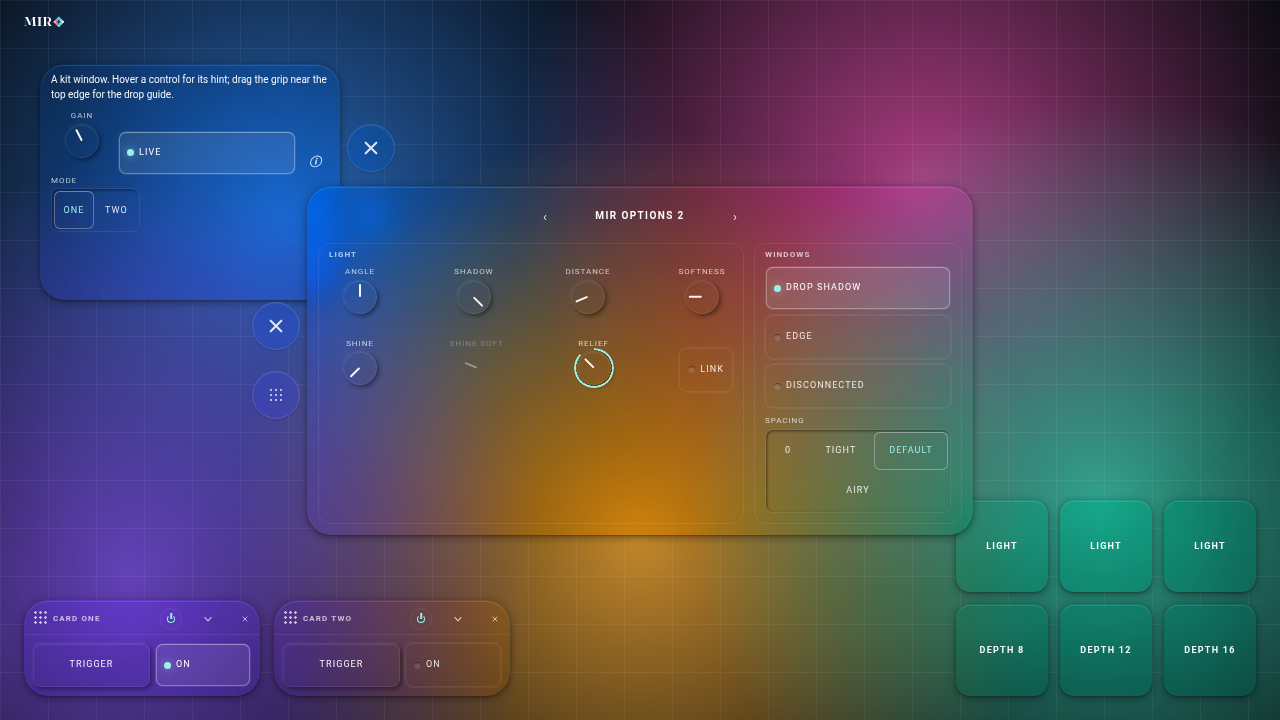
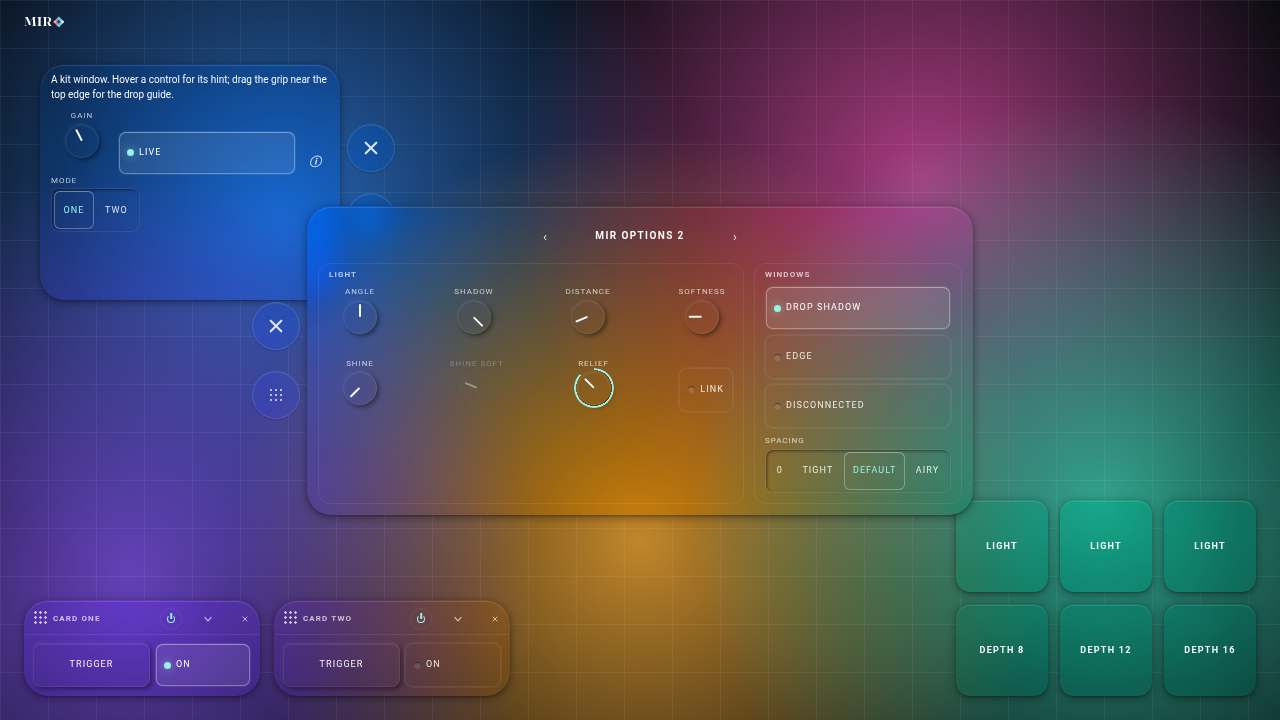
MIR 1.5.0-alpha.7: the join — BASINS parity: tokens, the lanes' hunks, SPACING on one line, docs, the suite green
Version 1.5.0-alpha.7. Tokens: V's six rows, the toast's three new defaults, a row for --glass-tint-color
(an app-written input BASINS writes), --neu-raise / --neu-inset with the relief light's exact √2 text (the
format checker accepts sqrt() inside a length now). Hunks: the starter test clicks FOLDERS' PROJECT
(BASINS' toolbar) and also proves Ctrl+S still saves; gallery/modulation.html's plain-card rack counts
(occupied: false). The transport test and doc follow V's ruled change (the bar keeps its own 16 px under
CORNERS). The GUI window keeps SPACING's four levels on one line on page 2 (plates retaken). CHANGELOG
(behaviour first), API from every lane, ADOPTING §7 brought up to date and §9 (the staged rack and
FOLDERS adoptions), LLM-MODS' round two, the catalogue (931 keys). npm test: 70/70 passed.

Claude-Session: https://claude.ai/code/session_01216PZJdRDXuZKuuo4X6KUw

diff --git a/mir/core/envelope.js b/mir/core/envelope.js
@@ -341,7 +341,7 @@ const NAMED = new Set(('transparent currentcolor black white silver gray grey re
 const COLOR_FNS = new Set(['rgb', 'rgba', 'hsl', 'hsla', 'hwb', 'lab', 'lch', 'oklab', 'oklch', 'color', 'color-mix', 'light-dark']);
 const COLOR_WORDS = new Set(['in', 'from', 'none', 'srgb', 'srgb-linear', 'display-p3', 'a98-rgb', 'prophoto-rgb', 'rec2020', 'xyz', 'xyz-d50', 'xyz-d65',
   'hsl', 'hwb', 'lab', 'lch', 'oklab', 'oklch', 'shorter', 'longer', 'increasing', 'decreasing', 'hue', 'r', 'g', 'b', 'h', 's', 'l', 'w', 'a', 'c', 'x', 'y', 'z', 'alpha']);
-const MATH_FNS = new Set(['calc', 'min', 'max', 'clamp', '']);
+const MATH_FNS = new Set(['calc', 'min', 'max', 'clamp', 'sqrt', '']);   // sqrt: the relief's exact √2 offsets (1.5.0-alpha.7)
 const GRAD_FNS = new Set(['linear-gradient', 'radial-gradient', 'conic-gradient', 'repeating-linear-gradient', 'repeating-radial-gradient', 'repeating-conic-gradient']);
 const GRAD_WORDS = new Set(['to', 'at', 'top', 'bottom', 'left', 'right', 'center', 'circle', 'ellipse', 'closest-side', 'closest-corner', 'farthest-side', 'farthest-corner', 'from', ...COLOR_WORDS]);
 const FILTER_FNS = new Set(['blur', 'brightness', 'contrast', 'saturate', 'grayscale', 'sepia', 'invert', 'opacity', 'hue-rotate', 'drop-shadow']);

diff --git a/mir/shell/gui.css b/mir/shell/gui.css
@@ -58,6 +58,13 @@
 .gui-line.gui-knobs { justify-content: space-between; flex-wrap: nowrap; }
 .gui-line.gui-knobs > .sw.gui-link { flex: 0 0 auto; align-self: center; }   /* RELIEF's LINK, in a dial row */
 .gui-line.gui-pair { gap: var(--gui-gap); flex-wrap: nowrap; }
+/* SPACING's four levels (0 · TIGHT · DEFAULT · AIRY) on one line in the one-column WINDOWS group: the segment fills the
+   row and its seats take the house's smallest inline padding (a mouse; a finger keeps the 44 px seats, which may wrap) */
+@media not (pointer: coarse) {
+  .gui-grp[data-group="windows"] .segw { flex: 1 1 100%; }
+  .gui-grp[data-group="windows"] .seg { display: flex; flex-wrap: nowrap; width: 100%; }
+  .gui-grp[data-group="windows"] .seg-b { min-width: 0; padding-inline: var(--sp-2); }
+}
 .gui-line.gui-sws > .sw { flex: 1 1 0; justify-content: flex-start; }
 .gui-line.gui-col { flex-direction: column; align-items: stretch; }   /* switches one under another */
 .gui-show { flex: 1 1 auto; align-items: stretch; }

diff --git a/mir/shell/transport.js b/mir/shell/transport.js
@@ -24,8 +24,8 @@
  *      Docked (BASINS' dock chip), the bar lives in a rack window named TRANSPORT and does not dodge.
  *   4. LATCHES SAY THE TRUTH, AND NOTHING POLLS.  After a click or a key on the page, a rack window opening or closing,
  *      the arm, the clock: ONE paint in the next frame.  Idle costs nothing.  BASINS' 250 ms sync interval is gone.
- *   5. EVERY LOOK VALUE IS THE KIT'S.  The bar is a `.glass` pane, so CARD STYLE, FROST, BLUR, CORNERS (via
- *      --surface-radius), RELIEF and the tier restyle it with no transport code (transport.css).
+ *   5. EVERY LOOK VALUE IS THE KIT'S.  The bar is a `.glass` pane, so CARD STYLE, FROST, BLUR, RELIEF and the tier
+ *      restyle it with no transport code (transport.css); it keeps its own 16 px corner under CORNERS, as BASINS' bar does.
  *   6. NO ENGLISH IN A LOOKUP.  Words go through label() / ariaLabel() / t(); parts are found by class and data-*.
  *
  * The pure helpers are exported for node tests. */

diff --git a/mir/app.js b/mir/app.js
@@ -182,7 +182,8 @@ export async function createApp(o = {}) {
     about: { version: o.version || '', licence: gplLicence(name, { license: LICENSE, notice: null }), type: kitType([], FONTS), ...opt(o.about) },
     onLogo: () => accent.paintMarks(), dump: () => (describe ? describe.dump() : ''), ...opt(o.notebook) });
 
-  /* 10. FOLDERS: SAVE, OPEN, NEW, export — every registered project part, for free */
+  /* 10. FOLDERS: every registered project part, for free; its toolbar is BASINS' (PROJECT · CAPTURE · DOWNLOAD · DUPLICATE · NEW),
+        and FILE › SAVE / Ctrl+S (the key table's 'save' row) save over the open project */
   if (want('folders')) folders = createFolders({ host: floats, app: key, store: key + '.folders', rack,
     adapter: o.thumbnail ? { thumbnail: o.thumbnail } : {}, onMoved: moved,
     say: (text, warn) => notice(text, { kind: warn ? 'warn' : 'ok' }), ...opt(o.folders) });

diff --git a/gallery/modulation.html b/gallery/modulation.html
@@ -103,7 +103,7 @@ const params = P.map((p) => {
 });
 
 /* ── THE PLUGIN: one call ── */
-const span = observeSpan({ left: rack });
+const span = observeSpan({ left: rack, occupied: false });   // this page's rack is a plain card, not kit windows: it always counts
 mod = installModulation({ mount: document.getElementById('floats'), params, present, storageKey, presetKey, dock: { span } });
 
 /* first visit: an LFO drives MACRO 1, routed onto a knob (SIZE) and a fader (BRIGHT); the ENV drives MACRO 2 → HUE */

diff --git a/mir/version.js b/mir/version.js
@@ -1,4 +1,4 @@
 /* version.js — the kit's version, in one place.  It equals package.json's "version" (tests/version.node.mjs holds
  * them together).  The GUI window's ABOUT page shows it (shell/gui.js MIR_VERSION) and every portable file carries it
  * (core/envelope.js KIT). */
-export const MIR_VERSION = '1.5.0-alpha.6';
+export const MIR_VERSION = '1.5.0-alpha.7';

diff --git a/docs/TOKENS.md b/docs/TOKENS.md
@@ -3,11 +3,11 @@
 > **Generated** from `mir/tokens.json` by `node tools/tokens-doc.mjs`. Do not edit this file; edit the schema and re-run.
 > `tests/tokens.node.mjs` fails when this page and the schema disagree, and when the schema and the kit's sheets disagree.
 
-**952 tokens:** 885 in the kit today — 830 declared in its sheets, 55 read there and declared nowhere, 0 written only by kit script — and 67 proposed for 1.5.
+**959 tokens:** 892 in the kit today — 836 declared in its sheets, 56 read there and declared nowhere, 0 written only by kit script — and 67 proposed for 1.5.
 
 | status | count |
 |---|---|
-| stable | 872 |
+| stable | 879 |
 | alias-of | 9 |
 | deprecated | 4 |
 | proposed | 67 |
@@ -322,6 +322,7 @@ What a pane is made of. Three vocabularies name it today (`--glass-*`, `--m2-mat
 | `--stage-ground-light` | component | color | `#eef1f6` |  | kit | ✓ | stable |  | stage.css: the light theme's #stage (html and body keep --stage-ground) |
 | `--solid-pane` | component | color | `hsl(var(--glass-tint) / 1)` |  | kit | ✓ | stable |  | CARD STYLE · SOLID: the opaque pane, in the glass tint (body[data-card="solid"]) |
 | `--pane-edge` | semantic | color |  |  | kit | ✓ | stable |  | EDGE: a window pane's rim (cards, kit windows, the islands, the notebook, the modulation panes), read before --surface-edge; menus and popovers keep theirs (BASINS draws no window edge) |
+| `--glass-tint-color` | semantic | color |  |  | app-input |  | stable |  | an app-written input: the pane tint as one colour (BASINS writes it); the toast reads color-mix(in srgb, var(--glass-tint-color, hsl(212 12% 17%)) 82%, transparent). The kit never declares it |
 | `--surface-shadow-docked` | semantic | shadow | → `var(--glass-shadow)` |  | kit | ✓ | proposed | pane-floats | height 1 of 4: a docked card in the rack |
 | `--p-hue-glass` | primitive | angle | → `var(--glass-hue)` |  | kit | ✓ | proposed |  | F1 §5.2 primitive |
 | `--p-white-a04` | primitive | color | — |  | kit | ✓ | proposed |  | F1 §5.2 primitive: white at .04 |
@@ -461,8 +462,8 @@ Shadows and bevels. Each one means one thing (docs/INTENT.md).
 | `--gl-fill-a` | component | color | `transparent` |  | plugin |  | deprecated |  | a bevel light; transparent in every seat (wave 71), so --glass-bevel draws nothing *[inert]* |
 | `--gl-fill-b` | component | color | `transparent` |  | plugin |  | deprecated |  | a bevel light; transparent in every seat (wave 71), so --glass-bevel draws nothing *[inert]* |
 | `--neu-flat` | semantic | shadow | `0 0 0 1px hsl(0 0% 100% / .05)` |  | kit | ✓ | stable |  | "a resting seat" — a 1px ring; no meaning in the 1.5 vocabulary (open) |
-| `--neu-inset` | semantic | shadow | `inset calc(-1.4142px * var(--light-sin)) calc(1.4142px * var(--light-cos)) 3px hsl(0 0% 0% / .48), inset calc(1.4142px * var(--light-sin)) calc(-1.4142px * var(--light-cos)) 2px hsl(0 0% 100% / .04)` | `inset calc(-1.4142px * var(--light-sin)) calc(1.4142px * var(--light-cos)) 3px hsl(214 30% 40% / .24), inset calc(1.4142px * var(--light-sin)) calc(-1.4142px * var(--light-cos)) 2px hsl(0 0% 100% / .8)` | kit | ✓ | stable | well | "a well cut into the card". Also drawn as ON and as pressed today — the overload the vocabulary ends (1.5.0-alpha.5: turns with LIGHT ANGLE through --light-sin / --light-cos; SOLID declares its own) |
-| `--neu-raise` | semantic | shadow | `calc(1.4142px * var(--light-sin)) calc(-1.4142px * var(--light-cos)) 3px hsl(0 0% 100% / .05), calc(-2.8284px * var(--light-sin)) calc(2.8284px * var(--light-cos)) 4px hsl(0 0% 0% / .42), inset calc(-1px * var(--light-sin)) calc(1px * var(--light-cos)) 0 hsl(0 0% 100% / .08)` | `calc(1.4142px * var(--light-sin)) calc(-1.4142px * var(--light-cos)) 3px hsl(0 0% 100% / .9), calc(-2.8284px * var(--light-sin)) calc(2.8284px * var(--light-cos)) 4px hsl(214 30% 40% / .22), inset calc(-1px * var(--light-sin)) calc(1px * var(--light-cos)) 0 hsl(0 0% 100% / .9)` | kit | ✓ | stable | press-me | "a control that stands proud": light from the top-left, dark to the bottom-right. Also drawn on the CHOSEN segment today — ledger (1.5.0-alpha.5: turns with LIGHT ANGLE through --light-sin / --light-cos; SOLID declares its own) |
+| `--neu-inset` | semantic | shadow | `inset calc(-1px * sqrt(2) * var(--relief-sin)) calc(1px * sqrt(2) * var(--relief-cos)) 3px hsl(0 0% 0% / .48), inset calc(1px * sqrt(2) * var(--relief-sin)) calc(-1px * sqrt(2) * var(--relief-cos)) 2px hsl(0 0% 100% / .04)` | `inset calc(-1px * sqrt(2) * var(--relief-sin)) calc(1px * sqrt(2) * var(--relief-cos)) 3px hsl(214 30% 40% / .24), inset calc(1px * sqrt(2) * var(--relief-sin)) calc(-1px * sqrt(2) * var(--relief-cos)) 2px hsl(0 0% 100% / .8)` | kit | ✓ | stable | well | "a well cut into the card". Also drawn as ON and as pressed today — the overload the vocabulary ends (1.5.0-alpha.7: turns with RELIEF ANGLE through --relief-sin / --relief-cos; SOLID declares its own) |
+| `--neu-raise` | semantic | shadow | `calc(1px * sqrt(2) * var(--relief-sin)) calc(-1px * sqrt(2) * var(--relief-cos)) 3px hsl(0 0% 100% / .05), calc(-2px * sqrt(2) * var(--relief-sin)) calc(2px * sqrt(2) * var(--relief-cos)) 4px hsl(0 0% 0% / .42), inset 0 1px 0 hsl(0 0% 100% / .08)` | `calc(1px * sqrt(2) * var(--relief-sin)) calc(-1px * sqrt(2) * var(--relief-cos)) 3px hsl(0 0% 100% / .9), calc(-2px * sqrt(2) * var(--relief-sin)) calc(2px * sqrt(2) * var(--relief-cos)) 4px hsl(214 30% 40% / .22), inset 0 1px 0 hsl(0 0% 100% / .9)` | kit | ✓ | stable | press-me | "a control that stands proud": light from the top-left, dark to the bottom-right. Also drawn on the CHOSEN segment today — ledger (1.5.0-alpha.7: turns with RELIEF ANGLE through --relief-sin / --relief-cos; SOLID declares its own) |
 | `--relief-raise` | semantic | shadow |  |  | kit | ✓ | stable | press-me | PRESS ME: unset by default, read as var(--relief-raise, var(--neu-raise)) on the knob puck, the trigger and the chosen segment (that last one is INTENT L33). FLAT: 0 0 0 0 transparent (1.4 fallback name: --neu-raise) |
 | `--relief-well` | semantic | shadow |  |  | kit | ✓ | stable | well | A WELL: unset by default, read as var(--relief-well, var(--neu-inset)) on the seg track, fader, readout, select, meter bar and plane model — and on .sw:active/.trig:active/.on, where 1.4 draws pressed and ON as a well (INTENT L18–L23) — and over the switch LED socket's literal inset. FLAT: 0 0 0 0 transparent (1.4 fallback name: --neu-inset) |
 | `--k-needle-edge` | component | shadow | `0 0 0 .5px hsl(0 0% 0% / .38)` |  | kit | ✓ | stable |  | base.css: the needle's dark hairline (skin.css takes the shadow off) |
@@ -474,6 +475,10 @@ Shadows and bevels. Each one means one thing (docs/INTENT.md).
 | `--light-cos` | component | number | `cos(var(--light-angle))` |  | kit |  | stable |  | cos() of LIGHT ANGLE, for the offsets |
 | `--solid-lit` | component | color | `color-mix(in srgb, var(--solid-pane), hsl(0 0% 100%) 18%)` | `color-mix(in srgb, var(--solid-pane), hsl(0 0% 100%) 70%)` | kit | ✓ | stable | press-me | SOLID's relief toward the light: a lighter mix of the pane |
 | `--solid-shade` | component | color | `color-mix(in srgb, var(--solid-pane), hsl(0 0% 0%) 32%)` | `color-mix(in srgb, var(--solid-pane), hsl(214 30% 30%) 22%)` | kit | ✓ | stable | press-me | SOLID's relief away from the light: a darker mix of the pane |
+| `--seat-edge` | component | outline | `1px solid hsl(0 0% 100% / .05)` |  | kit | ✓ | stable |  | a resting seat (--neu-flat) drawn as an outline beside a pane shadow: the value tooltip and the badge, so a pane shadow written as `none` never takes the seat with it (1.5.0-alpha.7) |
+| `--relief-angle` | semantic | angle | `315deg` |  | kit | ✓ | stable | press-me | RELIEF ANGLE: where the controls' light is (315 = upper left: the 1.4 relief, BASINS'); the raise and wells turn with it. LINK writes LIGHT ANGLE here (INTENT O2: two lights) |
+| `--relief-sin` | component | number | `sin(var(--relief-angle))` |  | kit |  | stable |  | sin() of RELIEF ANGLE, for the relief's offsets |
+| `--relief-cos` | component | number | `cos(var(--relief-angle))` |  | kit |  | stable |  | cos() of RELIEF ANGLE, for the relief's offsets |
 
 ## state
 
@@ -534,6 +539,7 @@ The 1.5 state tokens: one drawing per meaning.
 | `--m2-pow-edge` | component | border | `1.5px solid rgba(255,255,255,0.4)` |  | plugin | ✓ | stable |  | FROST value (MIR 1.5.0-alpha.4), edge |
 | `--m2-status-edge` | component | border | `1px solid hsl(0 0% 100% / .10)` |  | plugin | ✓ | stable |  | FROST value (MIR 1.5.0-alpha.4), edge |
 | `--m2-swaphot-ring` | component | outline | `2px dashed var(--acc2)` |  | plugin | ✓ | stable |  | FROST value (MIR 1.5.0-alpha.4), ring |
+| `--dev-carried-edge` | component | outline | `1px solid color-mix(in srgb, var(--acc) 35%, transparent)` |  | kit | ✓ | stable |  | CARRIED: the accent ring beside the float, as an outline outside the pane shadow's list (1.5.0-alpha.7) |
 | `--state-drop` | semantic | color | — |  | kit | ✓ | proposed | drop-here | the dotted proximity outline's ink (plan §6.4) |
 | `--glow-own` | semantic | length | — |  | kit | ✓ | proposed | own-colour | the glow radius of a value drawn in its own colour (BASINS: 7px, 10px while dragged) |
 
@@ -950,10 +956,10 @@ The small shell parts: dialog, notice, busy mark, boot card, settings rows (docs
 | `--settings-gap` | component | length | `8px` |  | kit | ✓ | stable |  | the gap between settings rows |
 | `--field-h` | component | length | `28px` |  | kit | ✓ | stable |  | a select or number field's height (the touch size on a coarse pointer) |
 | `--field-pad` | component | length | `0 8px` |  | kit |  | stable |  | a number field's padding |
-| `--toast-fill` | component | color | `color-mix(in srgb, hsl(var(--glass-tint)) 82%, transparent)` | `hsl(0 0% 100% / .86)` | kit | ✓ | stable |  | the toast's fill (BASINS' pill) |
+| `--toast-fill` | component | color | `color-mix(in srgb, var(--glass-tint-color, hsl(212 12% 17%)) 82%, transparent)` | `hsl(0 0% 100% / .86)` | kit | ✓ | stable |  | the toast's fill (BASINS' #toast, value for value) |
 | `--toast-ink` | component | color | `var(--fg)` | `#071114` | kit | ✓ | stable |  | the toast's words |
 | `--toast-edge` | component | color | `var(--glass-border-color)` |  | kit | ✓ | stable |  | the toast's 1 px edge |
-| `--toast-shadow` | component | shadow | `var(--surface-shadow, var(--glass-shadow))` |  | kit | ✓ | stable |  | the toast's float (pane height, as BASINS) |
+| `--toast-shadow` | component | shadow | `var(--glass-shadow)` |  | kit | ✓ | stable |  | the toast's float (BASINS' --glass-shadow) |
 | `--toast-radius` | component | length | `var(--r-pill)` |  | kit | ✓ | stable |  | the toast's corners: a pill |
 | `--toast-size` | component | length | `11px` |  | kit | ✓ | stable |  | the toast's type size |
 | `--toast-weight` | component | number | `500` |  | kit | ✓ | stable |  | the toast's type weight |
@@ -963,7 +969,7 @@ The small shell parts: dialog, notice, busy mark, boot card, settings rows (docs
 | `--toast-w` | component | length | `560px` |  | kit | ✓ | stable |  | the toast's widest |
 | `--toast-max` | component | length | `90vw` |  | kit | ✓ | stable |  | the toast's widest on a narrow screen |
 | `--toast-pad` | component | length | `8px 14px` |  | kit |  | stable |  | the toast's padding |
-| `--toast-z` | component | number | `calc(var(--z-banner) + 8)` |  | kit |  | stable |  | the toast's stacking order |
+| `--toast-z` | component | number | `calc(var(--z-veil) + 10)` |  | kit |  | stable |  | the toast's stacking order: BASINS' 50, above the veil (40), under the banner (60) |
 
 ## folders
 
@@ -1139,6 +1145,7 @@ The project window (docs/FOLDERS.md).
 | `--m2-power-ring-dash` | component | number | `48` |  | plugin | ✓ | stable |  | FROST value (MIR 1.5.0-alpha.4): modulation's POWER — the power ring's dash length (its whole arc) |
 | `--m2-power-ring-off` | component | number | `8` |  | plugin | ✓ | stable |  | FROST value (MIR 1.5.0-alpha.4): modulation's POWER — the gap the ring opens while modulation is off |
 | `--m2-focus-ring` | component | outline | `1px solid hsl(var(--hue-acc) var(--sat-acc) 52%)` |  | plugin | ✓ | stable |  | the plugin's focus ring as an OUTLINE (read after --state-focus, which a skin may set) |
+| `--m2-resizing-edge` | component | outline | `1px solid hsl(var(--hue-acc) var(--sat-acc) 68% / 0.55)` |  | plugin | ✓ | stable |  | the modulation window's resize ring, an outline beside its pane shadow (1.5.0-alpha.7) |
 
 ## filter
 

diff --git a/docs/API.md b/docs/API.md
@@ -1,6 +1,6 @@
 # MIR · API
 
-Every module the kit exports, what each export is, and what it returns. MIR 1.5.0-alpha.6.
+Every module the kit exports, what each export is, and what it returns. MIR 1.5.0-alpha.7.
 
 Each module's own header holds its laws and their reasons. This page is the map to them.
 
@@ -273,9 +273,10 @@ Storage: `{ items: { [path]: { path, folder, name, saved, opened, title, md } },
 
 ### The rack: `mir/shell/rack.js` ([RACK.md](RACK.md))
 
-- `createRack({ host, sides, key, store, favourites, transport, seats, phone, chrome, handle, onChange })` → `rack`
+- `createRack({ host, sides, key, store, favourites, transport, seats, phone, chrome, handle, look, onChange })` → `rack`. With an app's existing rack in the page (`#rack`, `#rackL`, `#floats`, the chrome ids) it adopts it: no second container, no kit look class on them (`look: 'kit'` opts in; `docs/RACK.md` "Adopting into an app that has a rack").
 - **Windows.**
-  - `rack.register({ id, title, side, open, glyph, hint, key, status, build(body, api), onOpen, onWake, onClose, onSleep, onFold, onPower, onPresent })` → id. Built on first open.
+  - `rack.register({ id, title, side, open, glyph, hint, key, status, el, closed, eager, card, build(body, api), onOpen, onWake, onClose, onSleep, onFold, onPower, onPresent })` → id. Built on first open.
+  - `el` takes over an already-built window; `closed: true` starts it closed; `eager: true` builds it at once; `card: true` marks an app card that is not a window (it keeps its place in the order and in saved layouts, as an unregistered `.dev` in a rack does). `rack.span()` is the page's one dock span; `rack.windows()` rows carry `card`.
   - `rack.start()` applies the saved layout. It also runs by itself after the creating task.
   - `rack.open(id, { side, index })`, `close(id)`, `toggle(id)`, `isOpen(id)`, `raise(id)`, `fold(id, on?)`, `move(id, { side, index })`.
   - `rack.float(id, at)`, `dock(id, { side, index })`, `toggleFloat(id)`, `setCompact(id, on)`.
@@ -296,10 +297,14 @@ Storage: `{ items: { [path]: { path, folder, name, saved, opened, title, md } },
 
 ### The GUI window: `mir/shell/gui.js` ([GUI.md](GUI.md), [THEMES.md](THEMES.md))
 
-- `createGui({ host, prefs, app, about, accent, defaults, storageKey })` → `{ root, window, prefs, open(page), close(), toggle(page), page, turn(dir), moving(bool), dropGuides(), census(), applyTheme(id), applyTone(id), themeCost(id?), light, parallax, destroy() }`; `open('options' | 'options:2' | 'about')`.
+- `createGui({ host, prefs, app, about, accent, defaults, storageKey, inkSampler })` (`inkSampler: true` offers TEXT · SAMPLED, the `text` option `'sampled'`: no `data-text` is written, so the app's own per-label ink sampler decides; 1.5.0-alpha.7) → `{ root, window, prefs, open(page), close(), toggle(page), page, turn(dir), moving(bool), dropGuides(), census(), applyTheme(id), applyTone(id), themeCost(id?), light, parallax, destroy() }`; `open('options' | 'options:2' | 'about')`.
 - `lookSchema()` → the schema rows (35 options) · `LOOK_PRESETS` → `{ [themeId]: theme options }` · `THEMES`.
 - `glassTint(bright, hue, tint, theme, saturation = 1)` → `'H S% L%'` | null · `census(doc)` → `{ blur, shadow, shine }` · `stepper(o)` · `migrateShadow(key, win)` · `SKINS`, `MIR_VERSION`, `MIR_WORDS`.
 - Sheet: `mir/shell/gui.css`.
+
+### An app's own panes: `[data-mir-surface]` (1.5.0-alpha.7, [GUI.md](GUI.md))
+
+`data-mir-surface="pane | float | menu | chip | island"` on an app's own element gives it the kit's material: `pane`, `float` and `menu` are the three heights, `chip` keeps its own corner, `island` is a pane only while DISCONNECTED. It is in every rule a `.glass` pane is in, at no weight of its own. The look options `reliefAngle` (0–360, default 315) and `reliefLink` (default off) are the second light (`THEME_KEYS` has both).
 
 ### The vanilla themes: `mir/shell/themes.js`
 
@@ -383,7 +388,7 @@ Load `mir/shell/parts.css` after the kit's sheets.
 ### `mir/shell/notice.js`
 | Export | |
 |---|---|
-| `notice(text, { kind = 'info' \| 'ok' \| 'warn' \| 'error', ms, action: { label, run }, seat = 'toast' \| 'corner', stack, offset, max = 4 })` → `{ close(), root }` | **toast** (default, BASINS'): one centred seat, `offset` from the bottom (default 84 px), replaced by the next notice, no ×, 3 s. **corner** (`seat: 'corner'` or `stack: true`, NEBULA's): a stack of up to `max`, each with a ×, 5 s (9 s for an error). `ms: 0` stays; hover or focus holds either |
+| `notice(text, { kind = 'info' \| 'ok' \| 'warn' \| 'error', ms, action: { label, run }, seat = 'toast' \| 'corner', stack, offset, max = 4 })` → `{ close(), root }` | **toast** (default, BASINS'): one centred seat, `offset` from the bottom (default 84 px), replaced by the next notice, no ×, 3 s. **corner** (`seat: 'corner'` or `stack: true`, NEBULA's): a stack of up to `max`, each with a ×, 5 s (9 s for an error). `ms: 0` stays; hover or focus holds either. The toast is `#mir-toast.glass`, takes no press (an action does), z-index 50 (1.5.0-alpha.7) |
 | `guarded(fn)` → fn's result | a throw or a rejection becomes an error notice (the toast) |
 
 ### `mir/shell/busy.js`
@@ -431,11 +436,14 @@ Load `mir/shell/parts.css` after the kit's sheets.
 ## FOLDERS: `mir/folders/`, the project window ([FOLDERS.md](FOLDERS.md))
 
 **`folders/folders.js`**
-- `createFolders({ host, id = 'folders', title = 'FOLDERS', store = 'mir.folders', storage, prefs, app, adapter, seeds, seededKey,
-  size, min, dock, onMoved, firstSeat, say, download, picture, defaultName, capChars, parts, sorts, actions, depthOf, factory,
-  capturePicture, savePicture, pictureStale, onInspect, onOpened })` → `{ win, files, gallery, adapter, seeded, intake, open(), close(),
-  toggle(), isOpen(), save(), saveAs({ name, folder }), fresh(), openEntry(id, { force }), current(), dirty(), seed(list),
-  exportProject('mir' | 'png'), importEnvelope(env), ingest(input), say(text, warn), state(), destroy() }`
+- `createFolders({ host, id = 'folders', domId, title = 'FOLDERS', store = 'mir.folders', storage, prefs, app, adapter, actions = DEFAULT_ACTIONS,
+  panels, galleryPanel, onTab, head = false, status = false, chipSide = 'right', seeds, seededKey, size, min, dock, onMoved, rack, firstSeat,
+  anchor = 'right', top = 162, say, download, picture, defaultName, capChars, parts, sorts, depthOf, factory, freshLoses, locked, projection,
+  capturePicture, savePicture, pictureStale, onInspect, onOpened, galleryCopy, files, emptyDragExcept })` → `{ win, files, gallery, adapter,
+  seeded, intake, views, panels, tab(id?), activeTab(), mountGallery(el, { pageSize, prefsKey, actions, factory, onInspect }), open(), close(),
+  toggle(), isOpen(), save(), saveAs(), fresh(), openEntry(), current(), dirty(), seed(), exportProject(), importEnvelope(), ingest(), say(),
+  state(), destroy() }` (1.5.0-alpha.7: BASINS' toolbar and panels by default)
+- `DEFAULT_ACTIONS` (BASINS' toolbar: PROJECT · CAPTURE · DOWNLOAD · DUPLICATE · NEW · ⋯), `FOLDERS_ACTIONS` (SAVE · SAVE AS · NEW · OPEN FILE · EXPORT), `GALLERY_PANEL`; `freeSeat({ …, anchor: 'centre' | 'right', gutter })`
 - `localPrefs(storage, key)` → `{ read, write }` · `toThumb(src, { max, type, quality })` → `Promise<data URL>` · `FOLDERS_COPY`
 
 `createFolders({ rack })`: the first seat keeps clear of the racks and the transport bar · `freeSeat({ vw, vh, w, h, minH, clear, top, margin })` → `{ x, y, h? }` (pure; 1.5.0-alpha.5).
@@ -599,7 +607,9 @@ The window loads two sheets, `mir/modulation/modhost.css` and then `mir/modulati
 
 ---
 
-## `mir/window/` and `mir/history/`: additions (1.5.0-alpha.5)
+## `mir/window/` and `mir/history/`: additions (1.5.0-alpha.5, alpha.7)
+
+- `window/dock.js` `observeSpan({ left, right, edge, view, occupied, narrow, active })` → `{ read() → { left, right, width, top, bottom }, subscribe(fn), setActive(on), active, destroy() }` (1.5.0-alpha.7, BASINS' rack-bounds): the rack's shadow gutter is subtracted; a rack with no open window (`occupied`, default `.dev:not(.closed):not([hidden])`; `false` counts any rack), a hidden one, `phone`, `ui-hidden` or a viewport of at most `narrow` (860) px counts as absent.
 
 - `window/rail.js` `createRail(…)` → adds `setDock('top' | 'bottom' | null)`: docked at the top or bottom, the rail's chips sit tighter (its disc plus `--rail-gap` along the rail). `createWindow` calls it from its layout, so every kit window's docked rail tightens.
 - `history/history-list.js`: `historyList(history, host, { tools = true, count = true })` → `{ root, paint, state(), onChange(fn) → off, destroy }`; `tools: false` / `count: false` leave UNDO / REDO and the count to the host; `state()` is `{ canUndo, canRedo, length, count }`. `historyState(history)` is the same state, pure.

diff --git a/CHANGELOG.md b/CHANGELOG.md
@@ -1,5 +1,51 @@
 # MIR — changelog
 
+## 1.5.0-alpha.7 — 2026-10-02 · BASINS parity
+
+Not released: built on branch `worktree-mir-1.5`. Josh, 10-02: "Prefer BASINS." Each part below was measured against BASINS' own.
+
+**Behaviour and breaking changes (read these first):**
+- **FOLDERS' default toolbar is BASINS'**: PROJECT · CAPTURE · DOWNLOAD · DUPLICATE · NEW · ⋯ (`DEFAULT_ACTIONS`). FOLDERS' own SAVE · SAVE AS · NEW · OPEN FILE · EXPORT is `actions: FOLDERS_ACTIONS`. Its rail is on the right, and **its first seat is top right** (BASINS'; `anchor: 'centre'` for the old one). The name and status lines are options (`head`, `status`): what happened is said by the toast. `createApp`'s FILE › SAVE and Ctrl/⌘+S still save over the open project.
+- **The notice toast takes no pointer and is drawn as a pane**: a `.glass` pane (`#mir-toast`), so REFRACTIVE + FROST blur it; a press at the toast reaches what is beneath it (with an action, only the action takes the pointer); z-index 50.
+- **`observeSpan` treats an empty or hidden rack as absent** (no open `.dev`, hidden, `phone`, `ui-hidden`, or a viewport of 860 px or less) **and subtracts the rack's shadow gutter**. A page whose rack is a plain card passes `occupied: false`.
+- **FROST's controls are lit from the upper left again (two lights)**: the controls' raise and wells turn with RELIEF ANGLE (default 315°), the panes with LIGHT ANGLE (0°). alpha.5's straight-down control relief is gone: every control is back to its 1.4 relief (stylehash against alpha.4: no relief differs). MORPH links the two at 315°.
+- **Glass control faces are clear in every state** (BASINS' `material.css` §1): a chosen segment, a hovered switch or segment, a pressed trigger included; a knob has no image; knobs, triggers, switches, tracks, fields, faders and readouts carry the .08 hairline.
+- **The transport bar keeps its own 16 px corner** under CORNERS (BASINS).
+- **`createRack` adopts an app's existing rack**: with `#rack`, `#rackL` and `#floats` in the page it uses them as they are and puts no kit look class on them (`look: 'kit'` opts in).
+
+### The look reaches an app's own panes
+- **`data-mir-surface`**: an app's own pane takes the kit's material with one attribute: `pane` · `float` · `menu` (the height) · `chip` (its own corner) · `island` (a pane only while DISCONNECTED). It is in every rule a `.glass` pane is in, at no weight of its own; a hooked pane computes what a kit card computes in every card style × frost × tier (`tests/themes.browser.mjs`).
+- **TEXT · SAMPLED** (`createGui({ inkSampler: true })`): writes no `data-text`, so an app's own per-label ink sampler decides. AUTO is unchanged for apps without one.
+- **Menus and pickers under REFRACTIVE + FROST** wear the theme's .10 frost veil (or VEIL) and the blur, no sheen; FROST · STILL holds the pickers.
+- **A pane shadow written as `none` breaks nothing**: the carried window's ring, the tooltip's and the badge's seat and the modulation window's resize ring are outlines now, outside the pane shadow's list (`--seat-edge`, `--dev-carried-edge`, `--m2-resizing-edge`). `docs/ADOPTING-1.5.md` §8 says what an app may write.
+
+### Two lights
+- **RELIEF ANGLE** (an arc) and **LINK** beside LIGHT ANGLE: LIGHT ANGLE turns the pane shadows and the shine, RELIEF ANGLE the controls' raise and wells, LINK makes them one light (INTENT O2 settled). FROST, CLASSIC, AURORA and NEON are 0° / 315°: panes straight down, controls down-right, BASINS and the 1.4 relief to the pixel. New look options `reliefAngle` (0–360, default 315) and `reliefLink` (default off); `--relief-angle`, `--relief-sin`, `--relief-cos`; `--neu-raise` / `--neu-inset` use exact √2 offsets (the format checker now accepts `sqrt()` inside a length).
+- The GUI window's OPTIONS page 2 keeps SPACING's four levels on one line (a mouse; a finger keeps the 44 px seats).
+
+### Glass faces as BASINS draws them
+- Under CONTROL FACES · GLASS every neutral face is clear in every state, as BASINS' `material.css` §1 draws it; `docs/THEMES.md` lists each state where this differs from INTENT's wording. `tests/intent.browser.mjs` accepts a clear chosen segment under GLASS faces, with its rim and accent label.
+
+### The toast
+- `notice()`'s toast is BASINS' `#toast` value for value: fill `color-mix(var(--glass-tint-color, hsl(212 12% 17%)) 82%)` (`--glass-tint-color` is BASINS' to write), shadow `--glass-shadow`, z-index 50 (`calc(var(--z-veil) + 10)`), no pointer. Measured against BASINS' toast in four seats: identical but for the dark ink.
+
+### The dock span and adopting an existing rack
+- **The dock span is BASINS' rack-bounds** (`window/dock.js` `observeSpan`): the shadow gutter subtracted; an empty, hidden, phone, ui-hidden or narrow rack absent; `setActive(on)`; `read()` adds `width`; options `occupied` and `narrow`. BASINS' docked modulation window lands where it did.
+- **`createRack` adopts an app's existing rack**: `register({ id, el })` takes over an already-built window, `closed: true` starts it closed, `eager: true` builds it at once, `card: true` marks an app card that is not a window (it keeps its place in the order and in saved layouts); `rack.span()` is the page's one dock span. Proven against a ☆ layout written by BASINS' own `rack.js`. `docs/RACK.md` gains "Adopting into an app that has a rack" (four stages) and "What BASINS' rack does that the kit still does not".
+
+### FOLDERS with BASINS' toolbar and panels
+- The toolbar is data (`actions`), BASINS' by default; `panels: [{ id, label, glyph, hint, build, onShow }]` after the built-in gallery, with BASINS' radio chips on the rail; BASINS' top-right first seat (`freeSeat({ anchor: 'right' })`); an open over an unknown screen asks first; the root carries its id (`#savewin` for BASINS); `mountGallery()` for a rack card's second view, every view sharing one store and adapter; `freshLoses`, `locked` and `projection` passed through. BASINS' own SAVE gate runs against it (`tests/folders-basins.browser.mjs`).
+
+### What BASINS can delete now
+- `surface-material.js` + `.css` (with `data-mir-surface` on its own panes); the face, popover, menu-veil and window-edge rules of `material.css`; with TEXT · SAMPLED, every override of the kit in `ink.css` (its sampler seats stay).
+- `toast()` and `#toast` (it keeps writing `--glass-tint-color`).
+- `rack-bounds.js` and its extra instances; in stages, `rack.js` (`docs/RACK.md`).
+- `save-window.js`, in stages (`docs/FOLDERS.md`).
+- The full list, by part: `docs/ADOPTING-1.5.md` §7; the staged rack and FOLDERS adoptions: §9.
+
+### Also
+- `docs/LLM-MODS.md` "First runs": round two, a fresh Haiku on the fixed skill, built a playing Tetris with none of the round-one workarounds.
+
 ## 1.5.0-alpha.6 — 2026-10-02 · what three models hit, ten complete draft translations, a checker that plays
 
 Not released: built on branch `worktree-mir-1.5`.

diff --git a/docs/ADOPTING-1.5.md b/docs/ADOPTING-1.5.md
@@ -69,11 +69,13 @@ An app's picture gestures (wheel zoom, drag to pan, a click that places somethin
 
 Gathered from the lanes that harvested BASINS' parts into the kit (each is a kit part with BASINS' design; delete BASINS' copy when the adoption reaches it):
 
-- **Settings › LOOK** (VANILLA): in `skin.js`, `setFaces`, `setFaceBlend`, `setText`, `setMaterial`, `setMaterialPreset`, `applyGlass`, `setBlur` and the pane part of `setUIDropShadow`, with their prefs keys; `surface-material.js` + `.css`; the glass-face, popover, glass-knob and window-edge rules of `material.css`; the TEXT seats of `ink.css` §1 (body and forced; `adaptive-ink.js` stays); its own rack gaps (SPACING).
-- **The toast** (shell parts): `toast()` and `#toast` (`notice()` is BASINS' toast).
+- **Settings › LOOK** (VANILLA): in `skin.js`, `setFaces`, `setFaceBlend`, `setText`, `setMaterial`, `setMaterialPreset`, `applyGlass`, `setBlur` and the pane part of `setUIDropShadow`, with their prefs keys; `surface-material.js` + `.css` (put `data-mir-surface` on its own panes, §8); the face, popover, menu-veil, glass-knob and window-edge rules of `material.css` (the kit's GLASS faces are BASINS' `material.css` §1, exactly, since alpha.7); the TEXT seats of `ink.css` §1 (body and forced). With TEXT · SAMPLED (`createGui({ inkSampler: true })`) nothing of `ink.css` needs to override the kit; `adaptive-ink.js` and its sampler seats stay. Its own rack gaps (SPACING).
+- **The toast** (shell parts): `toast()` and `#toast` (`notice()` is BASINS' toast, value for value since alpha.7: a `.glass` pane, no pointer, z-index 50; BASINS keeps writing `--glass-tint-color`, which the toast reads).
 - **Keys** (keys lane): its own Space handler for playing over a focused control (`overControls` in the key table); the history list's own UNDO / REDO and count wiring (`historyList(…, { tools: false, count: false })`, `state()`, `onChange()`).
 - **The transport** (transport lane): the `transport.js` bar (all but the macro rail), `transport-controls.js` / `.css` (including its 44 px power rule `#modwin.mir-modwindow .modxport.mir-mod-power`: the kit draws the seat), `transport-dodge.js`, the stage and rack seats of `transport-placement.js`, the `#transport` rules in `skin.css` / `lab.css`. The kit now has BASINS' ui-fix sizes (tempo 18 px, play 32 px) and the work-bar form (`bar: 'work'`).
 - **The docked chip rail and the modulation window docked** (modulation lane): any app rule that tightened docked chips or clipped the docked work bar (`rail.setDock`, `--rail-gap`).
+- **The dock span and the rack** (1.5.0-alpha.7): `rack-bounds.js` and its extra instances (`observeSpan` is BASINS' rack-bounds: the shadow gutter subtracted, an empty or hidden rack absent); in stages, `rack.js` itself, as `createRack` adopts the existing `#rack` / `#rackL` / `#floats` (§9).
+- **FOLDERS** (1.5.0-alpha.7): `save-window.js`, in stages (§9): `createFolders` has BASINS' toolbar (PROJECT · CAPTURE · DOWNLOAD · DUPLICATE · NEW · ⋯), its panels and radio chips, its top-right first seat and the root id `#savewin`; BASINS' own SAVE gate runs against it (`tests/folders-basins.browser.mjs`). `tools/rig/save-gate.js` needs five selector edits (`docs/FOLDERS.md`, "Its gate").
 - **The start-up** (EASE): the per-sheet `<link>`s (one `mir/mir.css`); a full-screen windows layer and its `pointer-events` rules (mount kit windows in `rack.el.floats`); the hand law in each control's `onInput` and the `isModulated ? baseOf : get` in a save (`makeParam`); the seven-call first route (`mod.route`); a hand-placed FOLDERS seat (`createFolders({ rack })`).
 
 Waiting: **the timeline's keys** cannot move into the key table until `timeline-editor.js`'s surface-gated handlers are handed over (one action per row, a `when()` reading the surface focus, the help sheet from `keys.helpRows()`).
@@ -85,6 +87,13 @@ Waiting: **the timeline's keys** cannot move into the key table until `timeline-
 - **An ink sampler of your own**: `createGui({ inkSampler: true })` and TEXT · SAMPLED writes no `data-text`, so your per-label ink (BASINS' `adaptive-ink.js` and its seats in `ink.css`) decides.
 - **What you may write onto the look tokens.** The kit's engine writes the shadows as `0 0 0 0 transparent` when they are off, never `none`. You may write either on `--surface-shadow`, `--surface-shadow-float` and `--surface-shadow-menu`: since alpha.7 no kit rule puts them in a list with another layer except the modulation window's own pane and rail, which add an inner light that is transparent unless the plugin's chassis is lit (`none` there costs that light, nothing else). Inside a list of your own, write `0 0 0 0 transparent`. A blur that is off is the whole filter `none` (`--surface-filter: none`), never `blur(0)`.
 - **What your own sheets still beat.** The kit is layered and your sheets are not: a rule of yours that paints the same property on the same control wins over the kit's look setting (BASINS' COLOUR lanes set `border: 0`, `border-radius: 0` and `box-shadow: none` on their faders and arc knobs, and its segments a 9 px corner and the raise on the chosen one). Keep such a rule only where it is your component's design, not the material.
+
+## 9. The staged adoptions: the rack and FOLDERS
+
+BASINS does not swap its rack or its SAVE window in one step. Each kit part adopts what is already in the page, so the app moves over in stages, with its own tests green at each:
+
+- **The rack**: `docs/RACK.md`, "Adopting into an app that has a rack" (four stages: one dock span in place of `rack-bounds.js`; `createRack` takes the existing windows (`register({ id, el })`, `card: true` for an app card) and the motion with them; the `+` and ☆ menus (`chrome: true`); the containers' look), and "What BASINS' rack does that the kit still does not".
+- **FOLDERS**: `docs/FOLDERS.md`, "BASINS: the exact options, and where each job of `save-window.js` sits" (the options that reproduce BASINS' window, and which of its jobs moved where).
 
 ## Check
 

diff --git a/docs/LLM-MODS.md b/docs/LLM-MODS.md
@@ -47,6 +47,8 @@ A model's app is laid out as the kit is, so the starter's paths hold: `myapp/mir
 
 None restyled a kit part, wrote a private `keydown` or a `setInterval`, made a second play, or filled ON with the accent. What they hit, and what 1.5.0-alpha.6 did about each, is `LLM.md` §9 "Observed".
 
+**Round two, the same day:** a fresh Haiku against the skill rebuilt after the fixes (kit `e617f3f`). It built a playing Tetris with none of the round-one workarounds: no LFO route added to make the clock run, the board inside `app.safeRect()`, its keys added through `app.keys.add` with `overControls` and `when: playing`. Driven with real keys by the orchestrator through `tools/check-app.mjs` (`--keys Space,ArrowLeft,ArrowLeft,ArrowUp,Enter,ArrowRight,Enter --expect playing`): no console error, the clock playing, two pieces locked and a third falling with its ghost. It wrote a camelCase parameter key again and the kit's new error named the rule; it fixed it itself. Its rotation is weak (it shifts the piece to find room instead of rotating): game logic the kit cannot see.
+
 ## The starter
 
 `starter/index.html` and `starter/app.js` (72 lines; 161 before 1.5.0-alpha.5) are the smallest whole MIR app: a ring of dots drawn from five numbers on a 2D canvas, with the transport bar as the main opener (a first run shows only the bar; ▶ and Space are the one play, the ring beside it is modulation's power), the wordmark and its seven menus, a rack with two windows (RING built only when first opened, its knob becoming a modulation target then), the modulation window with an LFO driving one number, the notebook whose first page is `LLM.md` (shared, and its first part the greeting on the picture), FOLDERS, a key table and its help view, a notice on save and the boot card. `index.html` loads one stylesheet, `mir/mir.css`. `createApp()` (`mir/app.js`) does the standard wiring in the kit's order and returns every piece; each piece can be left out (`false`), given options, or built by hand. Every section of `app.js` begins with a line saying what it is and what to change. Run it with `npm run gallery` and open `/starter/`.

diff --git a/docs/TRANSPORT.md b/docs/TRANSPORT.md
@@ -109,7 +109,7 @@ Every look value of the bar is the kit's, so the GUI window restyles it with no 
 | CARD STYLE | TINTED: the tint, never a blur; REFRACTIVE: the veil and the blur | the bar is `.glass` |
 | FROST | off: no blur anywhere | skin.css |
 | BLUR | the blur's radius | `--glass-blur` |
-| CORNERS | the bar's corner, the same as every pane's (BASINS' 16 px, `--xport-radius`, only where the 1.5 surface tokens are absent) | `border-radius: var(--surface-radius, var(--xport-radius))` |
+| CORNERS | does not reach the bar: it keeps its own 16 px corner under any CORNERS, as BASINS' bar does (1.5.0-alpha.7) | `border-radius: var(--xport-radius)` |
 | RELIEF | flat: the pill loses its raise | `--relief-raise` |
 | SHADOW, the tier | flat tier: no shadow, no blur, no relief | `--surface-shadow`, the tier's tokens |
 
